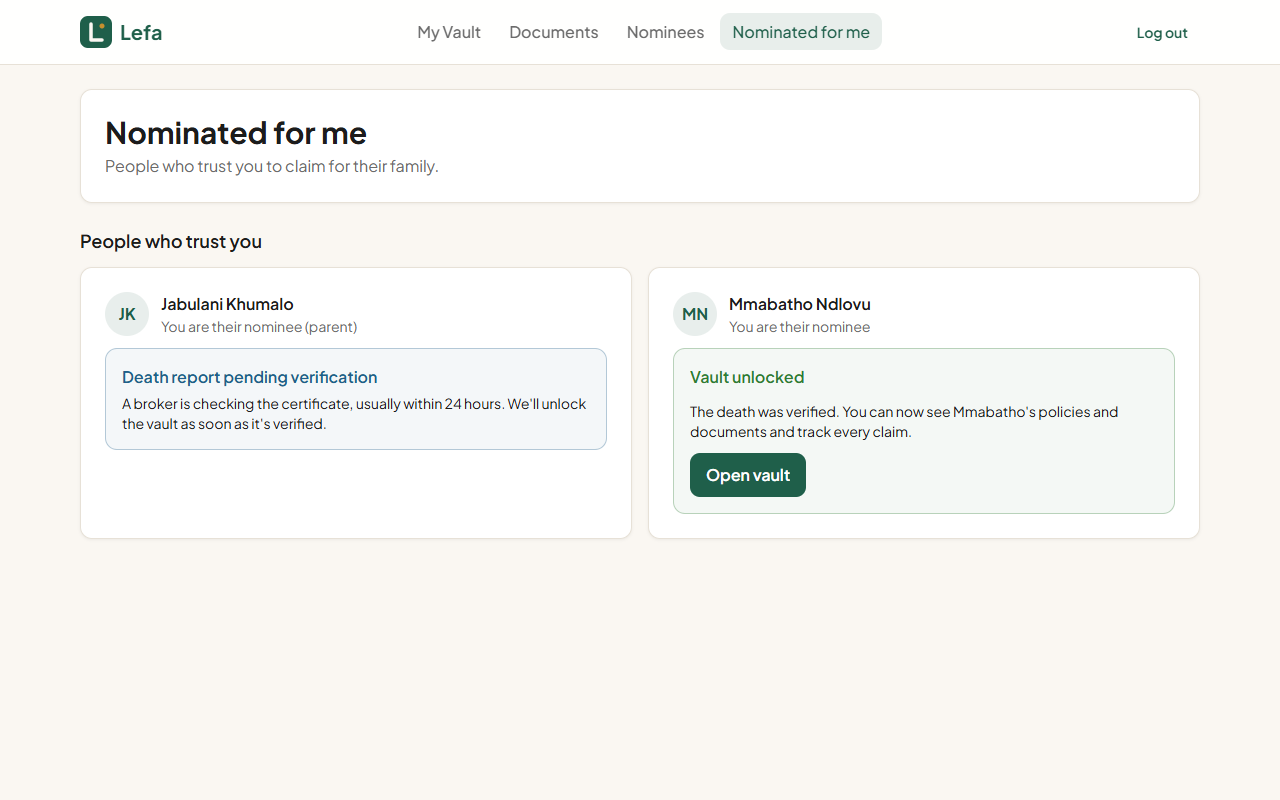
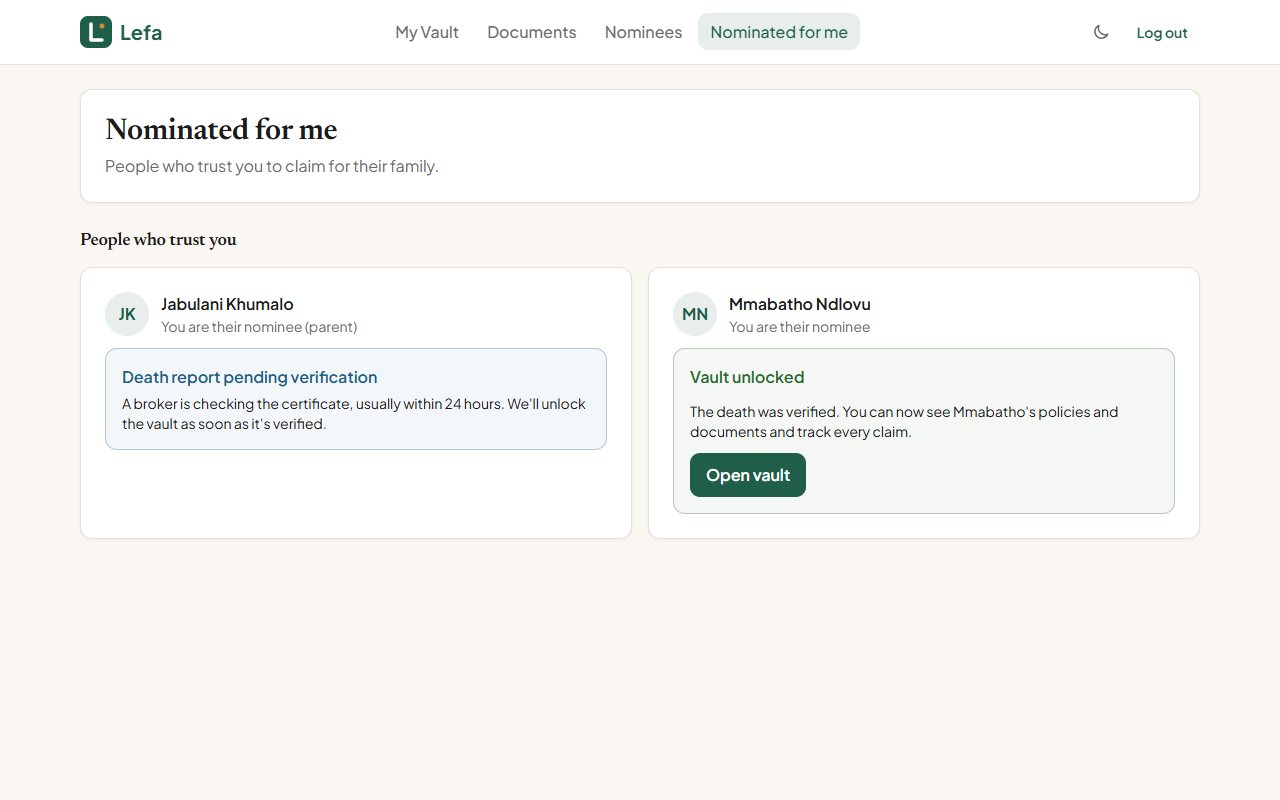
docs: refresh screenshots, test counts, Loom steps and check-in for final submission (#19)
- README: 199 website tests, screenshots in the final look, dark mode shot
- HOW_IT_WORKS: #17 polish section
- LOOM_SCRIPT: match the renamed "View policy" button
- SUBMISSION: portfolio contact + CV done, current 10:00 check-in

diff --git a/docs/SUBMISSION.md b/docs/SUBMISSION.md
@@ -12,7 +12,7 @@ Work after 15:30 isn't counted, so aim to post by **15:00**.
 - [x] Live link: https://lefa-nine.vercel.app (API: https://lefa-api.onrender.com/api/health)
 - [x] Log-in with roles, hosted database with migrations, CI on every PR
 - [x] **All Must features working on the live link** (M1–M5)
-- [x] Tests passing: pgTAP 115 · API 103 · website 197
+- [x] Tests passing: pgTAP 115 · API 103 · website 199
 - [x] README: screenshots, architecture, setup, tests, known issues, test logins
 - [ ] **Loom recorded** (script: `docs/LOOM_SCRIPT.md`) and its link added to the README
 - [ ] `npm run db:reset-demo` run after recording, so reviewers can verify a death too
@@ -24,8 +24,8 @@ Work after 15:30 isn't counted, so aim to post by **15:00**.
 - [x] Live: https://refilwe-segoe.vercel.app
 - [x] About, projects (Lefa first, group projects, individual builds) with screenshots, problem, role, stack, live and GitHub links
 - [x] Skills, responsive, no broken links, README
-- [ ] **Contact:** email, LinkedIn URL
-- [ ] **CV download** (PDF)
+- [x] **Contact:** email, LinkedIn, GitHub
+- [x] **CV download** (PDF)
 
 ## Final message (paste in the channel)
 
@@ -46,11 +46,14 @@ Portfolio repo: https://github.com/Ref-DevSa/portfolio
 Name: Refilwe Segoe
 Business / app name: Lefa
 Done since last check-in:
-- All Must features live on https://lefa-nine.vercel.app: documents (private storage, claim checklist), nominees (locked until a verified death), report a death, broker verification that unlocks the vault and opens claims, unlocked vault with claim tracker, broker dashboard and claims pipeline
-- Tests: 115 database security (pgTAP), 103 API, 197 front-end; CI green on every PR
-- README complete: screenshots, architecture, setup, tests, known issues
-- Portfolio live: https://refilwe-segoe.vercel.app
-Next: Loom recording, polish (mobile and accessibility pass, dark mode), portfolio contact + CV
+- All Must features live: documents, nominees, death reports, broker verification, claims
+- Polish done: dark mode, mobile and accessibility
+- Tests: 115 database, 103 API, 199 front-end; CI green
+- README done (Loom link still to add)
+- Portfolio complete: projects, contact, LinkedIn, CV
+Next: Loom recording and final submission
 Blockers: None
-Repo link: https://github.com/Ref-DevSa/lefa
+Live: https://lefa-nine.vercel.app
+Portfolio: https://refilwe-segoe.vercel.app
+Repo: https://github.com/Ref-DevSa/lefa
 ```

diff --git a/docs/HOW_IT_WORKS.md b/docs/HOW_IT_WORKS.md
@@ -361,11 +361,21 @@ South Africans hold **17 million funeral policies**, yet about **R88 billion** i
 
 > **In one sentence:** "The broker sees which families need them today, verifies a death with the certificate in front of them, and moves every claim to paid, with the family watching the same timeline."
 
+### #17 Polish: Lefa's own look, dark mode, and working for everyone
+- **What:**
+  - **Dark mode:** a moon/sun button in every header. Cream stays the default and the choice is remembered on that device.
+  - **A look of its own:** serif headings, and a *litema* pattern, the geometric designs Basotho women carve into the walls of their homes. "Lefa" is a Sesotho word, so the pattern points back to where the name comes from.
+  - **Accessibility:** stronger colour contrast, and link names that match the words on screen.
+  - **Mobile:** nothing scrolls sideways on a 360px-wide phone, and the claim tracker stacks vertically.
+- **How:** every colour is a named "token" (such as *surface* or *ink*). Dark mode swaps the values behind the names in one file, so the screens follow without being rewritten.
+- **Why it matters:**
+  - **Families:** people use Lefa on ordinary phones, at a hard time. Text they can read and buttons they can reach aren't extras.
+  - **The business:** trust sells insurance. A product that looks considered, and works for people with poor eyesight, should lose fewer customers at sign-up. One set of colour tokens also makes later design changes cheaper.
+- **How we know it works:**
+  - **An automated accessibility check (axe)** on the live site: 13 pages, at desktop and phone width, in light and dark mode, with 0 problems and no sideways scrolling. Automated checks can't find everything, so testing with real users comes next.
+  - **Website: 2 new tests** (199 in total).
 
-
-
-
-
+> **In one sentence:** "Lefa has its own South African look, a dark mode, and works on a small phone for people who need stronger contrast."
 
 ---
 
@@ -427,4 +437,4 @@ South Africans hold **17 million funeral policies**, yet about **R88 billion** i
 - **Validation:** checking input is sensible before saving it (e.g. no negative amounts).
 - **CRUD:** Create, Read, Update, Delete: the four basic things you can do with stored data.
 
-*All Must features are built. Next up: #17 polish (mobile, accessibility, dark mode), #18 README, #19 Loom demo.*
+*All Must features are built, polished and live.*

diff --git a/README.md b/README.md
@@ -66,6 +66,7 @@ All demo accounts use the password **`LefaDemo2026!`**.
 | ![Nominated for me](docs/screenshots/08-nominated-for-me.png) **Nominated for me** | ![Unlocked vault](docs/screenshots/09-unlocked-vault.png) **Unlocked vault + claims** |
 | ![Broker dashboard](docs/screenshots/10-broker-dashboard.png) **Broker dashboard** | ![Verify report](docs/screenshots/11-verify-report.png) **Verify a death report** |
 | ![Claims pipeline](docs/screenshots/12-claims-pipeline.png) **Claims pipeline** | ![Mobile](docs/screenshots/13-mobile-vault.png) **Mobile** |
+| ![Dark mode](docs/screenshots/14-dark-mode.png) **Dark mode** (moon icon in the header) | |
 
 ## 🏗 Architecture
 
@@ -184,7 +185,7 @@ npm run dev         # API on :3001, website on :5173 (Vite forwards /api)
 |---|---|---|---|
 | Database security | pgTAP | **115** | `npm run db:test` |
 | API | Jest + Supertest | **103** | `npm test -w server` |
-| Website | Jest + React Testing Library | **197** | `npm test -w client` |
+| Website | Jest + React Testing Library | **199** | `npm test -w client` |
 
 - **Database:** each migration has a test file that plays the roles: an owner, a nominee before and after a death, a stranger, the family's broker, another broker and an anonymous visitor. It checks what each can and can't see or change. The key test is *"an accepted nominee sees 0 policies until a death is verified"*.
 - **API:** every route runs against an in-memory fake of Supabase that mirrors the RLS rules. Tests cover logins (401), roles (403), validation (400), duplicates (409), uploads (real file type, 5 MB) and the full report → verify → claim flow.

diff --git a/docs/LOOM_SCRIPT.md b/docs/LOOM_SCRIPT.md
@@ -48,7 +48,7 @@ Loom's free plan stops at 5 minutes, so each part has a target time. **Say the l
 *Point to the orange banner.*
 > "Lefa warns her that her Clientele policy has **lapsed**. It won't pay out, so she needs to act now, not after a funeral."
 
-*Click **View Old Mutual policy**.*
+*On the Old Mutual card, click **View policy**.*
 > "Each policy has a **claim-ready checklist**: her ID, bank letter and policy schedule are uploaded, privately. View links expire after 60 seconds."
 
 *Click **Back to My Vault**, point to **Your nominees**.*
@@ -104,7 +104,7 @@ Loom's free plan stops at 5 minutes, so each part has a target time. **Say the l
 ## After recording
 
 1. In Loom, copy the **share link**.
-2. Send it to me, or paste it into the README's *Loom pitch + demo* row.
+2. Add it to the README's *Loom pitch + demo* row and to the final message.
 3. Run `npm run db:reset-demo` so reviewers also find a report to verify.
 
 ## If something goes wrong while recording
